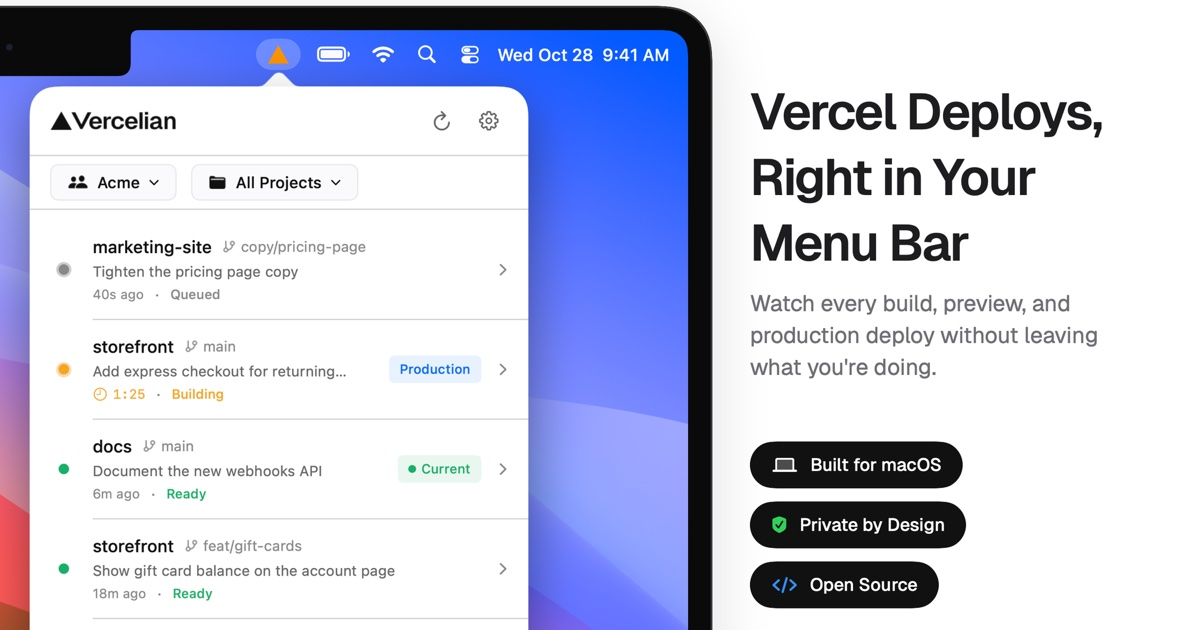
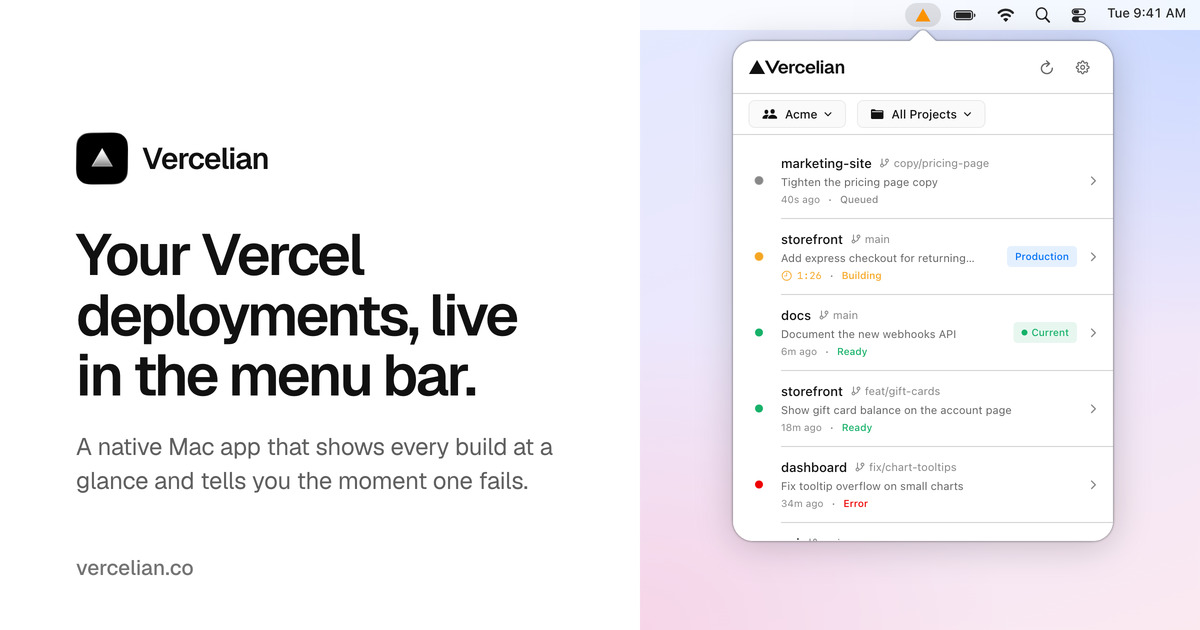
Replace the OG image with a card made for its size
The old image was a crop of the App Store screenshot, which cut off the
Mac's frame and the popover and crowded the text against the bottom
edge. The new card pairs the site's headline with the demo's popover,
whole, under the menu bar. Its address carries ?v=2, so services that
cached the old image fetch the new one.

diff --git a/website/public/index.html b/website/public/index.html
@@ -16,10 +16,10 @@
   <meta property="og:url" content="https://vercelian.co/">
   <meta property="og:title" content="Vercelian · Vercel deployments in your Mac menu bar">
   <meta property="og:description" content="A native Mac app that shows your Vercel deployments live in the menu bar and alerts you the moment a build fails.">
-  <meta property="og:image" content="https://vercelian.co/assets/og.jpg">
+  <meta property="og:image" content="https://vercelian.co/assets/og.jpg?v=2">
   <meta property="og:image:width" content="1200">
   <meta property="og:image:height" content="630">
-  <meta property="og:image:alt" content="Vercelian's popover under the macOS menu bar, listing queued, building, and ready deployments">
+  <meta property="og:image:alt" content="Vercelian's popover under the macOS menu bar, listing queued, building, ready, and failed deployments, beside the headline “Your Vercel deployments, live in the menu bar.”">
   <meta name="twitter:card" content="summary_large_image">
 
   <meta name="theme-color" content="#ffffff" media="(prefers-color-scheme: light)">

diff --git a/website/public/privacy.html b/website/public/privacy.html
@@ -16,10 +16,10 @@
   <meta property="og:url" content="https://vercelian.co/privacy">
   <meta property="og:title" content="Privacy Policy · Vercelian">
   <meta property="og:description" content="What Vercelian keeps on your Mac and sends to Vercel. In short: it collects nothing.">
-  <meta property="og:image" content="https://vercelian.co/assets/og.jpg">
+  <meta property="og:image" content="https://vercelian.co/assets/og.jpg?v=2">
   <meta property="og:image:width" content="1200">
   <meta property="og:image:height" content="630">
-  <meta property="og:image:alt" content="Vercelian's popover under the macOS menu bar, listing queued, building, and ready deployments">
+  <meta property="og:image:alt" content="Vercelian's popover under the macOS menu bar, listing queued, building, ready, and failed deployments, beside the headline “Your Vercel deployments, live in the menu bar.”">
   <meta name="twitter:card" content="summary_large_image">
 
   <meta name="theme-color" content="#ffffff" media="(prefers-color-scheme: light)">
